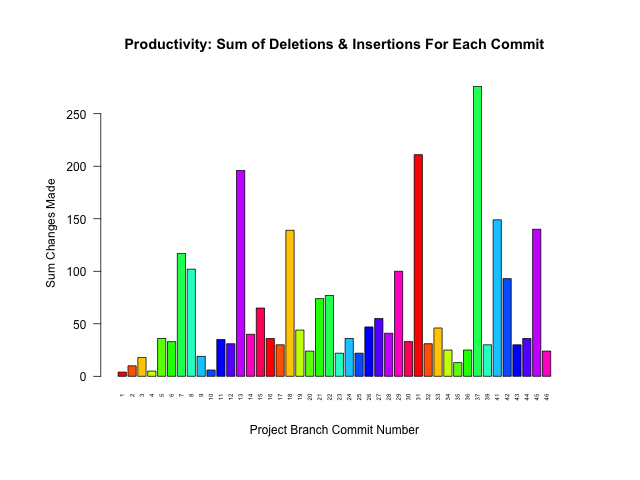
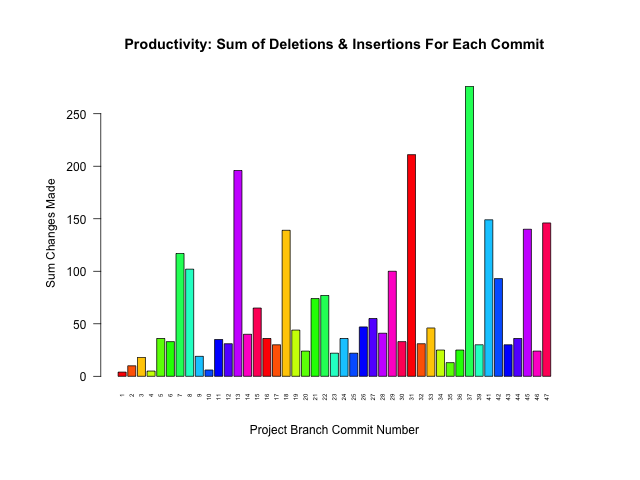
COMMIT #212

Changed region(s): [[0.1875, 0.1562, 0.875, 0.7812], [0.3125, 0.8125, 0.8438, 0.8438], [0.25, 0.8125, 0.2812, 0.8438]]

diff --git a/README.md b/README.md
@@ -17,8 +17,8 @@ ProjectName::BranchName.data
 
 Project Name | Last Updated | # Commits | # Branches | Branches Merged
 :---|:---:|:---:|:---:|:---:
-[learn_some_C.Plus.Plus](https://github.com/pierremigeon/learn_some_C.Plus.Plus)                    |  2023-06-17  |  46   |  1  |  100%  (1/1)
-[commit_tracker](https://github.com/pierremigeon/commit_tracker)                                    |  2023-06-15  |  210  |  1  |  100%  (1/1)
+[learn_some_C.Plus.Plus](https://github.com/pierremigeon/learn_some_C.Plus.Plus)                    |  2023-06-18  |  47   |  1  |  100%  (1/1)
+[commit_tracker](https://github.com/pierremigeon/commit_tracker)                                    |  2023-06-17  |  211  |  1  |  100%  (1/1)
 [libft](https://github.com/pierremigeon/libft)                                                      |  2023-06-05  |  30   |  2  |  50%   (1/2)
 [ft_printf](https://github.com/pierremigeon/ft_printf)                                              |  2023-06-01  |  37   |  2  |  100%  (2/2)
 [minishell](https://github.com/pierremigeon/minishell)                                              |  2023-05-20  |  78   |  8  |  88%   (7/8)
